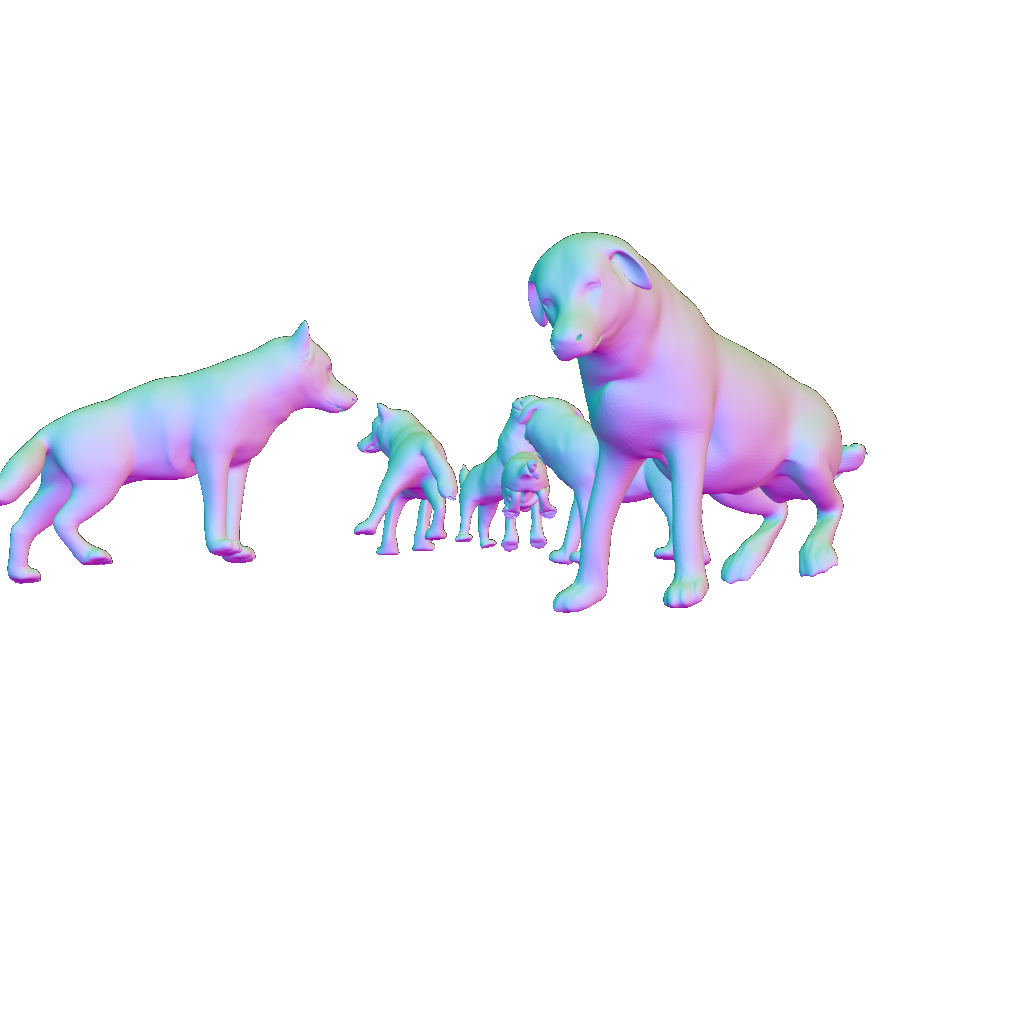
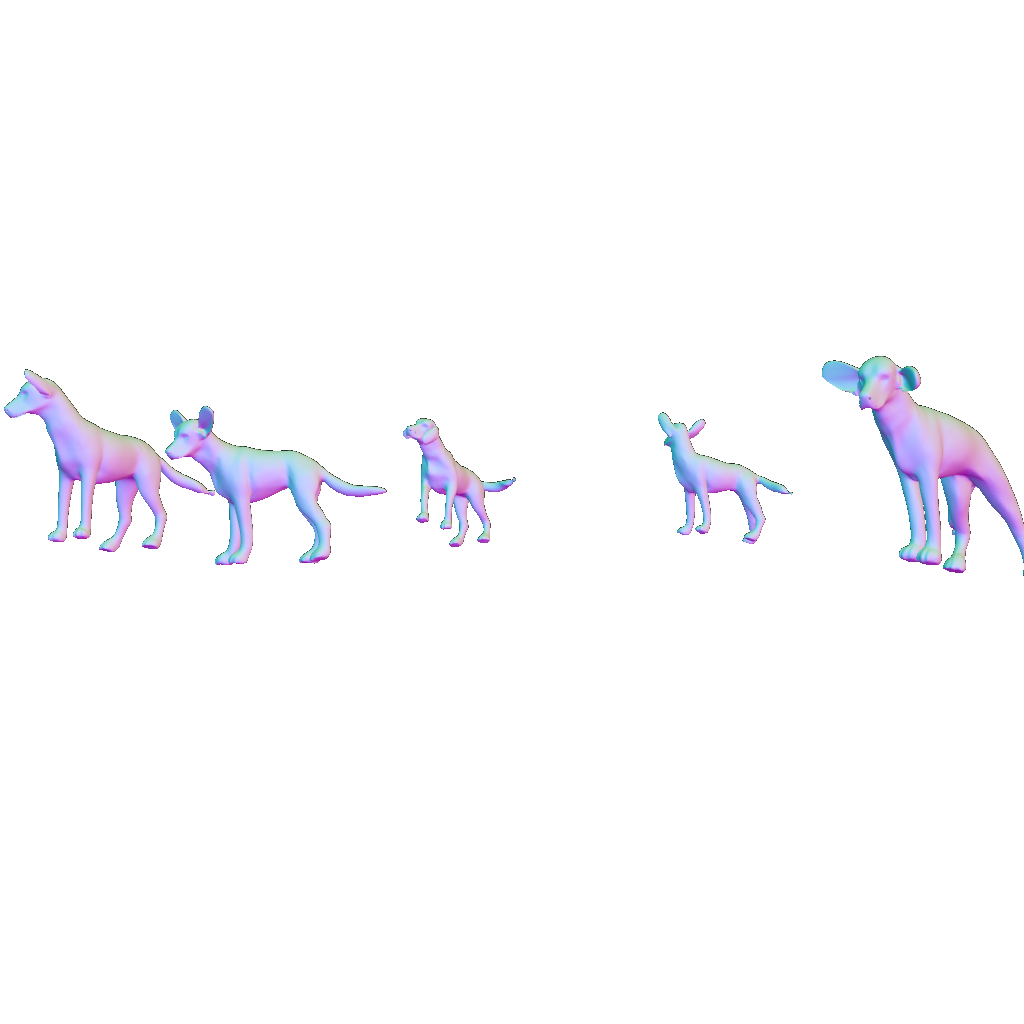
Update project page with Blender teaser and Herd3D pipeline assets.

Changed region(s): [[0.0, 0.2188, 1.0, 0.5938]]

diff --git a/index.html b/index.html
@@ -117,7 +117,9 @@
 <section class="hero teaser">
   <div class="container is-max-desktop">
     <div class="hero-body">
-      <img src="resources/teaser.jpg" alt="SAM 3D Animal teaser">
+      <video autoplay muted preload loop playsinline>
+        <source src="resources/teaser.mp4" type="video/mp4">
+      </video>
       <h2 class="subtitle" style="text-align: justify; font-size: 1.2rem;">
         We present <b>SAM 3D Animal</b>, the first <b>promptable</b> framework for <b>multi-animal 3D reconstruction</b> from a single in-the-wild image.
         Built on the <b>SMAL+</b> parametric animal model, our method jointly recovers up to 30 animals in one forward pass and accepts optional <b>keypoint</b> and <b>mask</b> prompts to disambiguate crowded and occluded scenes&mdash;without requiring per-instance bounding-box cropping.
@@ -171,25 +173,6 @@
           </p>
         </div>
 
-        <div class="columns is-multiline">
-          <div class="column is-half">
-            <img src="resources/demo/Antelopes-1024x576__all.jpg" alt="Antelope herd reconstruction">
-          </div>
-          <div class="column is-half">
-            <img src="resources/demo/GroupofhorsesJPG__all.jpg" alt="Horse group reconstruction">
-          </div>
-          <div class="column is-half">
-            <img src="resources/demo/collie-herding-sheep__all.jpg" alt="Sheep and dog reconstruction">
-          </div>
-          <div class="column is-half">
-            <img src="resources/demo/european-wolf-canis-lupus-group-snow-42206039__all.jpg" alt="Wolf pack reconstruction">
-          </div>
-          <div class="column is-half">
-            <img src="resources/demo/cats__all.jpg" alt="Cat group reconstruction">
-          </div>
-        </div>
-        <br>
-
         <img src="resources/paper_x5.png" alt="Qualitative evaluation of SAM 3D Animal">
         <p class="has-text-centered is-size-6">
           Qualitative results on challenging multi-animal scenes with input images and overlay reconstructions.
@@ -241,22 +224,28 @@
         </div>
 
         <div class="herd3d-pipeline">
-          <div class="herd3d-pipeline__item herd3d-pipeline__item--video">
-            <video autoplay muted preload loop playsinline>
-              <source src="resources/herd3d_qwen.mp4" type="video/mp4">
-            </video>
+          <div class="herd3d-pipeline__row herd3d-pipeline__row--media">
+            <div class="herd3d-pipeline__item herd3d-pipeline__item--video">
+              <video autoplay muted preload loop playsinline>
+                <source src="resources/herd3d_qwen.mp4" type="video/mp4">
+              </video>
+            </div>
+            <div class="herd3d-pipeline__arrow" aria-hidden="true">&rarr;</div>
+            <div class="herd3d-pipeline__item">
+              <img src="resources/Controlnet.png" alt="Qwen-ControlNet synthesis">
+            </div>
+            <div class="herd3d-pipeline__arrow" aria-hidden="true">&rarr;</div>
+            <div class="herd3d-pipeline__item herd3d-pipeline__item--synthetic">
+              <video autoplay muted preload loop playsinline>
+                <source src="resources/herd3d_synthetic.mp4" type="video/mp4">
+              </video>
+            </div>
+          </div>
+          <div class="herd3d-pipeline__row herd3d-pipeline__row--labels">
             <p>Qwen3-VL prompting</p>
-          </div>
-          <div class="herd3d-pipeline__arrow" aria-hidden="true">&rarr;</div>
-          <div class="herd3d-pipeline__item">
-            <img src="resources/herd3d_controlnet.png" alt="Qwen-ControlNet synthesis">
+            <span class="herd3d-pipeline__arrow-spacer" aria-hidden="true"></span>
             <p>Qwen-ControlNet</p>
-          </div>
-          <div class="herd3d-pipeline__arrow" aria-hidden="true">&rarr;</div>
-          <div class="herd3d-pipeline__item herd3d-pipeline__item--synthetic">
-            <video autoplay muted preload loop playsinline>
-              <source src="resources/herd3d_synthetic.mp4" type="video/mp4">
-            </video>
+            <span class="herd3d-pipeline__arrow-spacer" aria-hidden="true"></span>
             <p>Synthetic image</p>
           </div>
         </div>

diff --git a/static/css/index.css b/static/css/index.css
@@ -22,6 +22,14 @@ body {
   font-family: 'Google Sans', sans-serif;
 }
 
+.teaser video {
+  display: block;
+  width: 100%;
+  height: auto;
+  border-radius: 8px;
+  box-shadow: 0 4px 24px rgba(0, 0, 0, 0.08);
+}
+
 
 .publication-banner {
   max-height: parent;
@@ -213,12 +221,20 @@ body {
 }
 
 .herd3d-pipeline {
+  margin: 1.5rem 0;
+}
+
+.herd3d-pipeline__row {
   display: flex;
   align-items: center;
   justify-content: center;
   flex-wrap: wrap;
   gap: 0.4rem 0.2rem;
-  margin: 1.5rem 0;
+}
+
+.herd3d-pipeline__row--labels {
+  margin-top: 0.45rem;
+  gap: 0.2rem;
 }
 
 .herd3d-pipeline__item {
@@ -254,10 +270,24 @@ body {
   border: 1px solid #e2e8f0;
 }
 
-.herd3d-pipeline__item p {
-  margin-top: 0.45rem;
+.herd3d-pipeline__row--labels p {
+  flex: 0 0 auto;
+  width: 420px;
+  max-width: 46vw;
+  margin: 0;
+  text-align: center;
   font-size: 0.82rem;
   color: #718096;
+}
+
+.herd3d-pipeline__row--labels p:nth-child(3) {
+  width: 200px;
+  max-width: 28vw;
+}
+
+.herd3d-pipeline__row--labels p:nth-child(5) {
+  width: 200px;
+  max-width: 28vw;
 }
 
 .herd3d-pipeline__arrow {
@@ -267,4 +297,10 @@ body {
   font-weight: bold;
   padding: 0 0.15rem;
   line-height: 1;
+}
+
+.herd3d-pipeline__arrow-spacer {
+  flex: 0 0 auto;
+  width: 1.6rem;
+  padding: 0 0.15rem;
 }